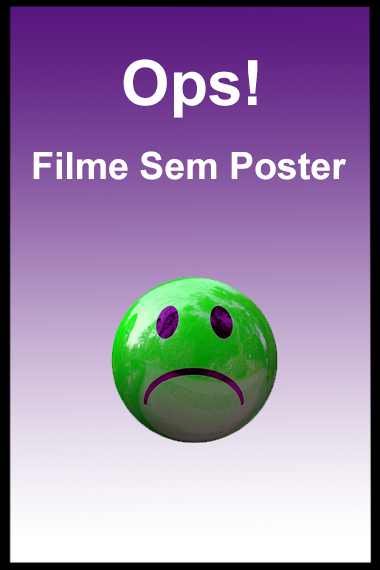
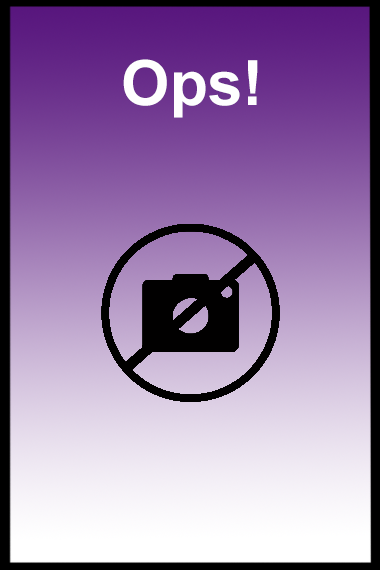
overview field fixed

diff --git a/pages/watchtoday.js b/pages/watchtoday.js
@@ -2,23 +2,22 @@
 import { useState } from "react";
 import styles from "../styles/Home.module.css";
 import ErrorPage from "./error-page";
+import Image from "next/image";
 import { format } from "date-fns";
 import Head from "next/head";
 
-// gerar numero randomico
-
 export default function Movieapi() {
-  const [movie, setMovie] = useState({});
   const [movieData, setMovieData] = useState({});
-  const [movieId, setMovieId] = useState();
+  const [movieId, setMovieId] = useState(null);
 
   let [isError, setError] = useState(false);
   let [isLoading, setIsLoading] = useState(false);
 
   const apiCall = (event) => {
     setIsLoading(true);
-
     setMovieId(Math.floor(Math.random() * 560000));
+    // setMovieId(550);
+
     console.log("Id do Filme: " + movieId);
 
     const url = `https://api.themoviedb.org/3/movie/${movieId}?api_key=dd10bb2fbc12dfb629a0cbaa3f47810c&language=pt-BR`;
@@ -53,8 +52,9 @@ export default function Movieapi() {
           country: result.production_countries[0].name,
           ratingCount: result.vote_count,
           popularity: result.popularity,
-          gender: result.genres.name,
+          gender: result.genres.map((genre) => genre.name),
           languages: result.spoken_languages[0].name,
+          adult: result.adult,
         });
 
         setIsLoading(false);
@@ -80,7 +80,10 @@ export default function Movieapi() {
   //     .then((result) => setData(result.status));
   // }
 
-  let poster = "https://image.tmdb.org/t/p/original" + movieData.image;
+  let poster = "/callback.png";
+  if (movieData.image) {
+    poster = "https://image.tmdb.org/t/p/original" + movieData.image;
+  }
 
   return (
     <>
@@ -101,14 +104,16 @@ export default function Movieapi() {
           <span>{isLoading ? <div>Carregando...</div> : " "}</span>
         </h2>
 
-        {isError === true ? (
+        {isError === true || movieData.adult === true ? (
           <ErrorPage message={``}></ErrorPage>
         ) : (
           <div>
             <div>
               <h1>
                 <br />
-                <span>{`${movieData.originalTitle}`}</span>
+                <span
+                  className={styles.title}
+                >{`${movieData.originalTitle}`}</span>
                 <br />
                 ...
                 <br />
@@ -125,13 +130,15 @@ export default function Movieapi() {
                   </tr>
                   <tr>
                     <td className={styles.table}>Overview</td>
-                    <td className={styles.table}>{`${movieData.overview}`}</td>
+                    <td className={styles.table}>
+                      {!movieData.overview ? "Sem infos" : movieData.overview}
+                    </td>
                   </tr>
                   <tr>
                     <td className={styles.table}>Popularidade</td>
-                    <td
-                      className={styles.button}
-                    >{`${movieData.popularity}`}</td>
+                    <td className={styles.button}>
+                      {`${movieData.popularity}`}
+                    </td>
                   </tr>
                   <tr>
                     <td className={styles.table}>Nota Média</td>
@@ -139,15 +146,7 @@ export default function Movieapi() {
                       className={styles.table}
                     >{`${movieData.average}- Nº de Votos: ${movieData.ratingCount}`}</td>
                   </tr>
-                  <tr>
-                    <td className={styles.table}>Data de lançamento</td>
-                    <td className={styles.table}>
-                      {" "}
-                      {!movieData
-                        ? format(new Date(movieData.releaseDate), " dd/MM/yyyy")
-                        : ""}
-                    </td>
-                  </tr>
+
                   <tr>
                     <td className={styles.table}>País de Origem</td>
                     <td className={styles.table}> {movieData.country}</td>
@@ -155,12 +154,11 @@ export default function Movieapi() {
                   <tr>
                     <td className={styles.table}>Generos</td>
                     <td className={styles.table}>
-                      {" "}
                       {movieData.gender &&
-                        movieData.gender.map((genders, index) => (
-                          // eslint-disable-next-line react/jsx-key
-                          <span>
-                            {movieData.genders.name}
+                        movieData.gender.length > 0 &&
+                        movieData.gender.map((gender, index) => (
+                          <span key={gender}>
+                            {gender}
                             {index !== movieData.gender.length - 1 ? ", " : ""}
                           </span>
                         ))}
@@ -181,7 +179,7 @@ export default function Movieapi() {
                       height="720"
                     />
                   ) : (
-                    <img
+                    <Image
                       className={styles.card_image_big}
                       src="/callback.png"
                       alt="poster"
@@ -214,6 +212,10 @@ export default function Movieapi() {
               </button>
 
               <br />
+              <br />
+              <button onClick={apiCall} className={styles.button}>
+                Verificar Novo
+              </button>
             </div>
           </div>
         )}

diff --git a/styles/Home.module.css b/styles/Home.module.css
@@ -46,7 +46,7 @@
   line-height: 1.15;
   /* font-size: 4rem; */
   text-align: center;
-  font-size: 24px;
+  font-size: 40px;
   font-weight: bold;
   margin-bottom: 20px;
 }
@@ -511,6 +511,7 @@
 
 .table {
   margin: auto;
+  word-wrap: break-word;
   align-items: center;
   appearance: none;
   background-color: #fcfcfd;
@@ -521,7 +522,7 @@
   font-family: "JetBrains Mono", monospace;
   height: 48px;
   /* width: 60px; */
-  max-width: 500px;
+  max-width: 600px;
   white-space: normal;
   line-height: 1;
   list-style: none;
@@ -535,7 +536,7 @@
   user-select: none;
   -webkit-user-select: none;
   touch-action: manipulation;
-  white-space: nowrap;
+
   will-change: box-shadow, transform;
   font-size: 18px;
 }
@@ -549,6 +550,7 @@
   box-shadow: rgba(45, 35, 66, 0.4) 0 4px 8px,
     rgba(45, 35, 66, 0.3) 0 7px 13px -3px, #d6d6e7 0 -3px 0 inset;
   transform: translateY(-2px);
+  word-wrap: break-word;
 }
 
 .table:active {
